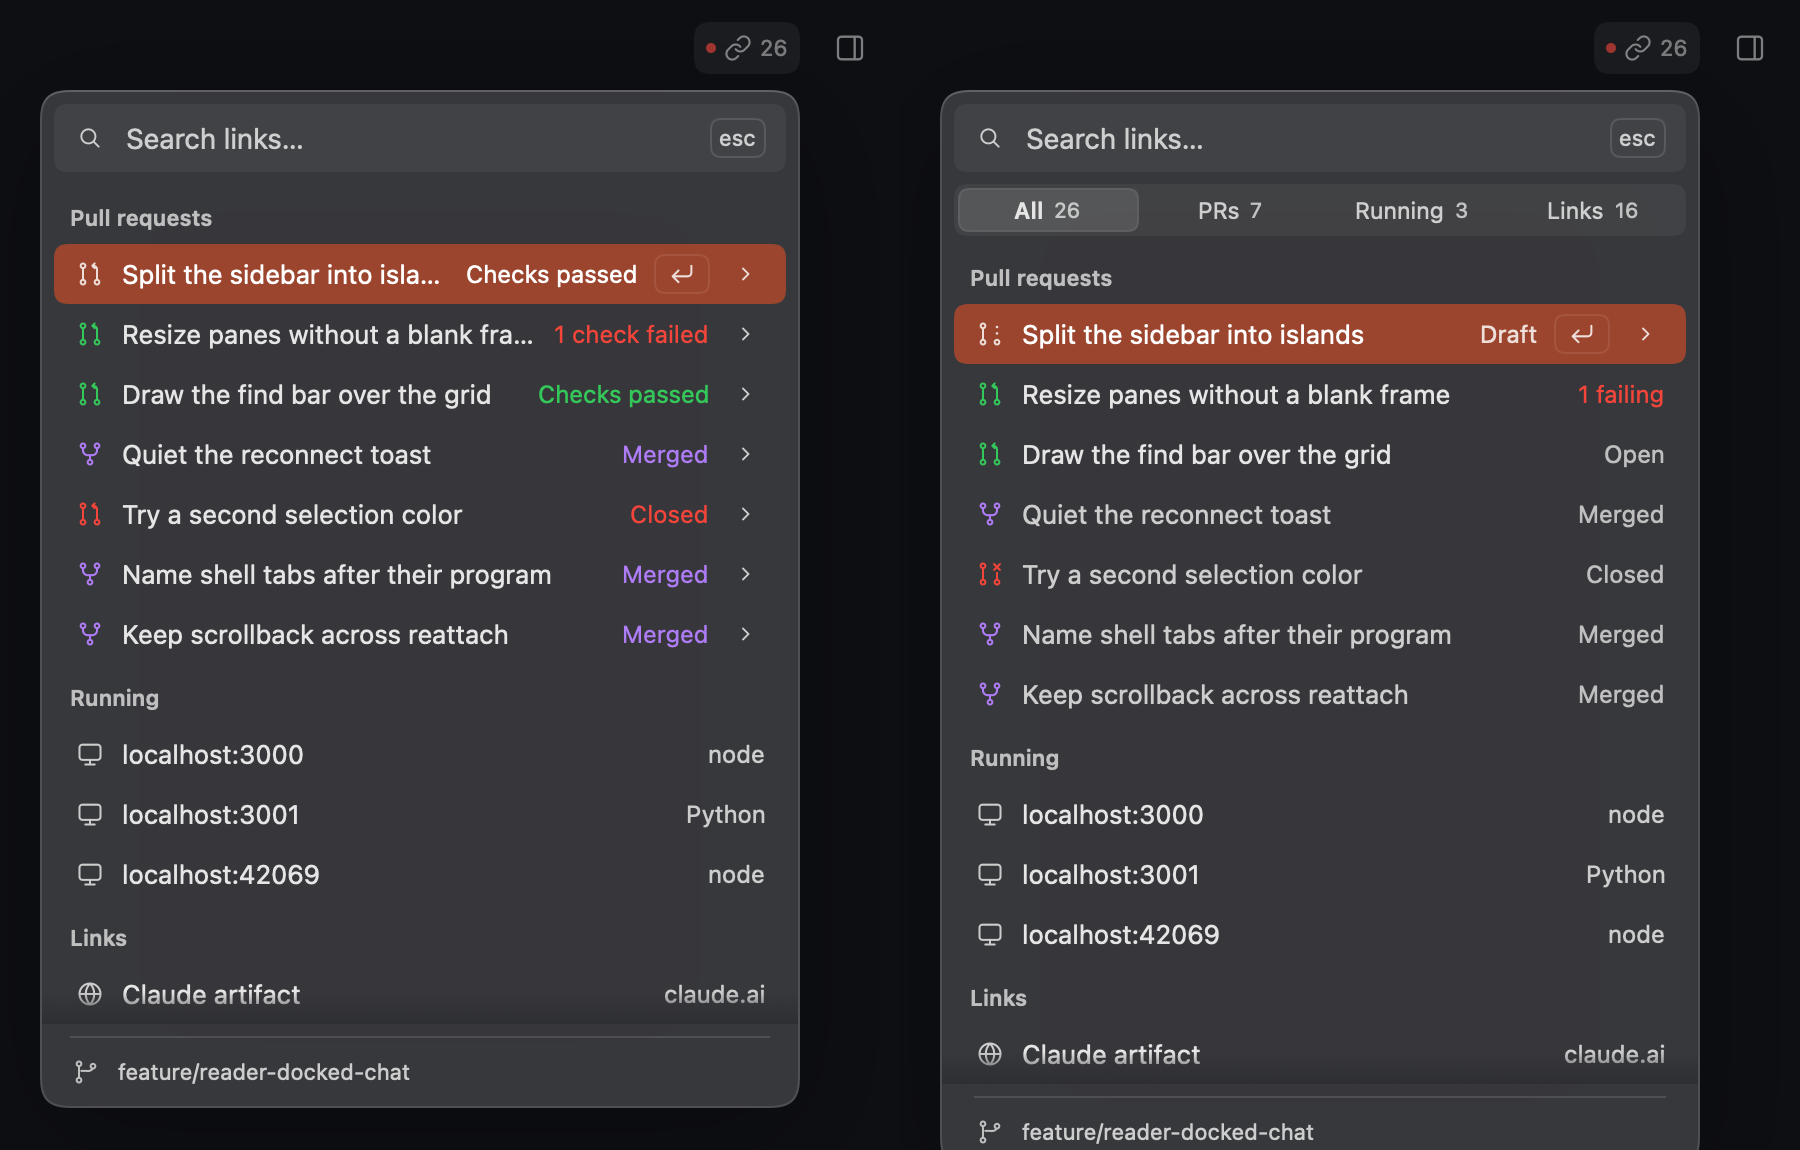
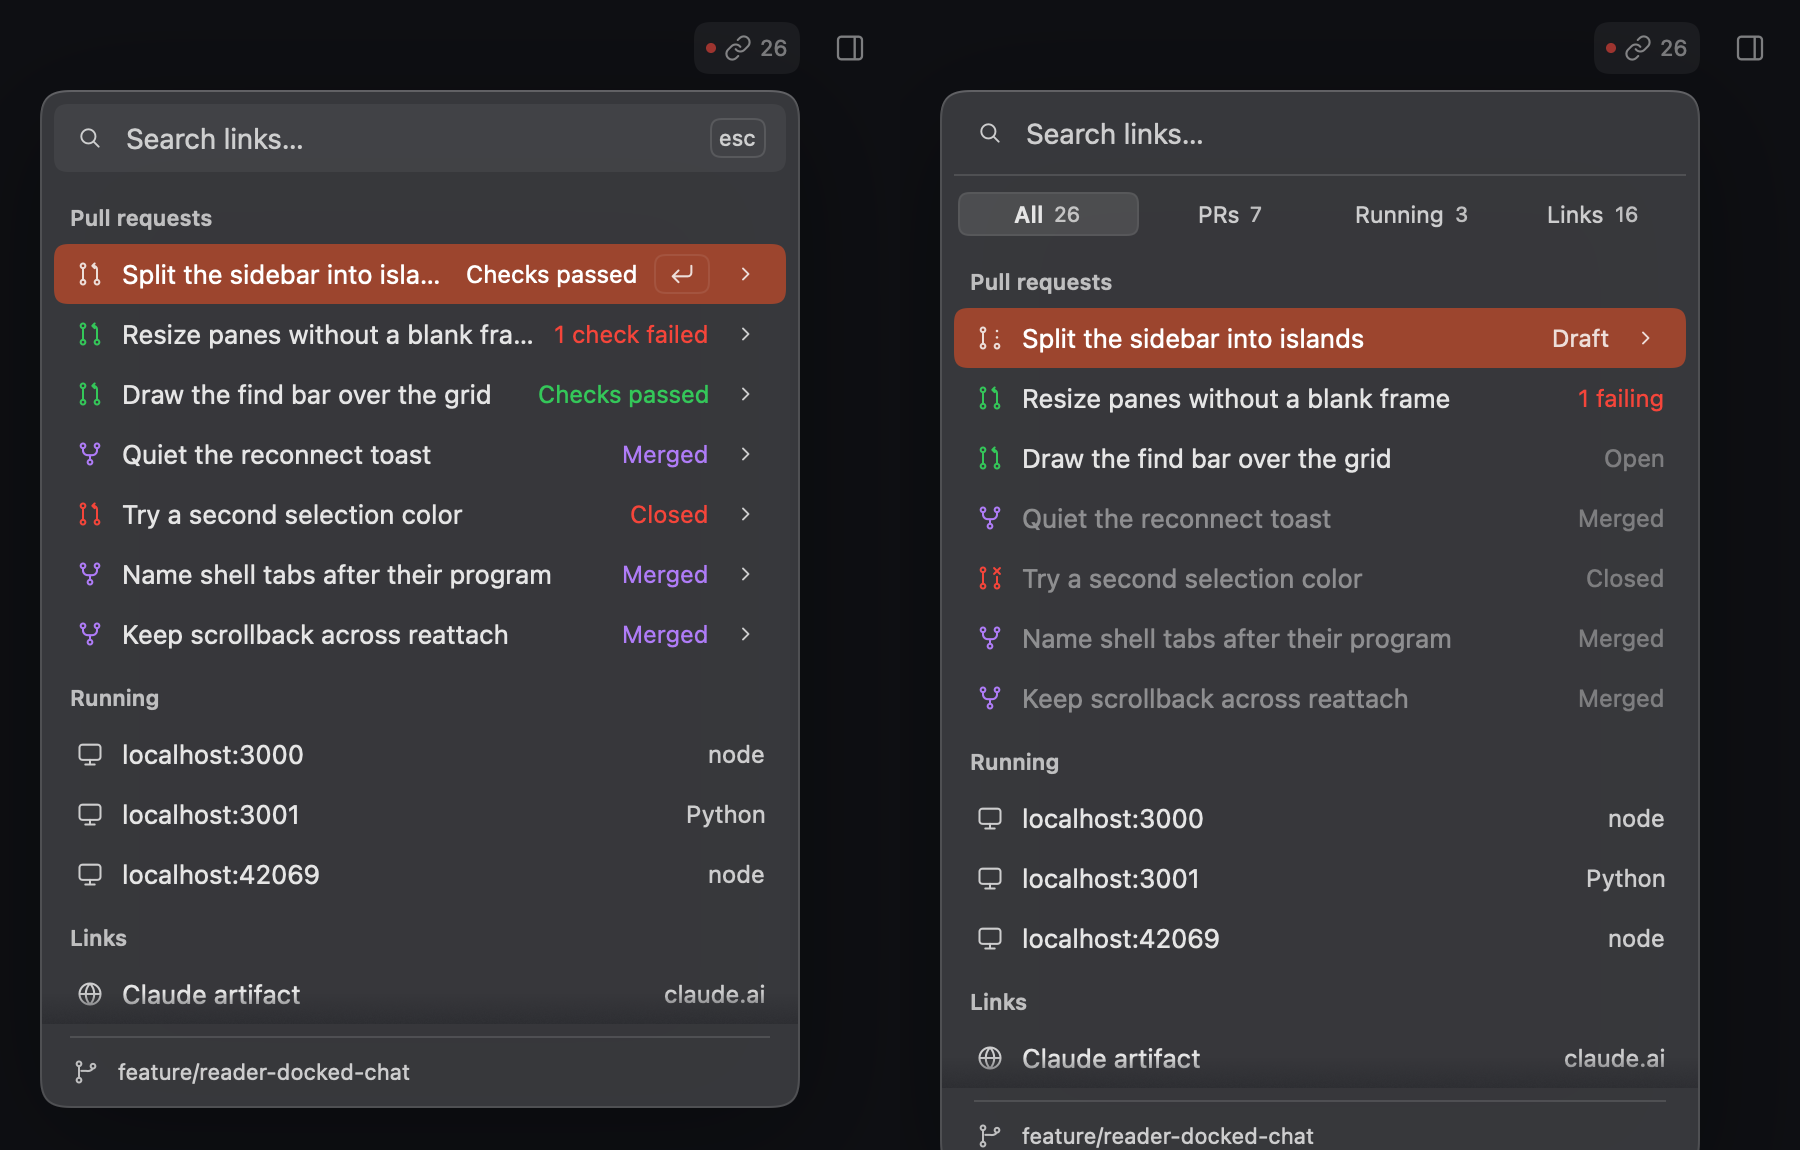
Links popover craft pass: one box, no keycaps, settled PRs step back
- Search is bare text over a hairline instead of a filled pill; esc keycap gone
- Scope control drops its track fill, so only the chosen scope is raised
- No return keycap on the highlighted row; the chevron alone marks a PR's detail page
- Merged and closed titles at half ink, state words always below their title

diff --git a/diri/crates/diri-app/src/session_links.rs b/diri/crates/diri-app/src/session_links.rs
@@ -1,6 +1,6 @@
 //! One contextual home for session links. Status is always attached by URL.
 use super::*;
-use crate::palette_chrome::{PaletteTooltip, keycap, scroll_fades};
+use crate::palette_chrome::{PaletteTooltip, scroll_fades};
 use crate::query_editor::{self, ClipboardEdit, Edit, QueryEditor};
 use crate::tooltip_warmth::WarmTooltip;
 use diri_proto::{ArtifactKind, PrCheck, PullRequestStatus, SessionArtifact};
@@ -1106,12 +1106,7 @@ impl TerminalPane {
                     })
                     .cursor_pointer()
                     .text_size(px(13.0))
-                    // Merged and closed work steps back; open work reads first.
-                    .text_color(if row.settled && !selected {
-                        ink.secondary
-                    } else {
-                        ink.primary
-                    })
+                    .text_color(ink.primary)
                     .child(
                         div()
                             .w(px(16.0))
@@ -1142,6 +1137,11 @@ impl TerminalPane {
                                         el.flex_shrink_0().max_w(gpui::relative(0.7))
                                     })
                                     .truncate()
+                                    // Merged and closed work steps back; open
+                                    // work reads first.
+                                    .when(row.settled && !selected, |el| {
+                                        el.text_color(ink.primary.alpha(0.5))
+                                    })
                                     .child(row.title.clone()),
                             )
                             .when(selected && !address.is_empty(), |el| {
@@ -1164,7 +1164,8 @@ impl TerminalPane {
                                 .text_color(match tone {
                                     _ if selected => ink.secondary,
                                     Some(tone) => tone,
-                                    None => ink.tertiary,
+                                    // Below a dimmed title, never above it.
+                                    None => ink.primary.alpha(0.4),
                                 })
                                 .child(label),
                         )
@@ -1179,13 +1180,6 @@ impl TerminalPane {
                                 .text_color(ink.secondary)
                                 .child(text),
                         )
-                    })
-                    .when(selected, |el| {
-                        el.child(keycap(ink).child(Icon::new(
-                            IconName::Return,
-                            14.0,
-                            ink.secondary,
-                        )))
                     })
                     .when_some(row.details.clone().filter(|_| selected), |el, url| {
                         el.child(
@@ -1243,7 +1237,8 @@ impl TerminalPane {
             }))
             .into_any_element()
     }
-    /// The ⌘K palette's search field: an inset pill with an esc keycap.
+    /// The search field: bare text over a hairline, as a popover's own field
+    /// rather than a palette's pill. Esc still closes it.
     fn render_palette_links_header(
         &self,
         pull_request: Option<i64>,
@@ -1267,14 +1262,13 @@ impl TerminalPane {
                 .into_any_element(),
         };
         div()
-            .mt(px(inset))
             .mx(px(inset))
             .mb(px(inset))
-            .h(px(34.0))
+            .h(px(42.0))
             .pl(px(4.0))
             .pr(px(10.0))
-            .rounded(px(Radius::inner(Radius::PANEL, inset)))
-            .bg(Fill::subtle(colors))
+            .border_b_1()
+            .border_color(colors.floating_stroke())
             .flex()
             .items_center()
             .gap(px(4.0))
@@ -1316,17 +1310,6 @@ impl TerminalPane {
                     .text_size(px(14.0))
                     .child(text),
             )
-            .child(
-                keycap(colors)
-                    .id("session-links-close")
-                    .cursor_pointer()
-                    .hover(move |el| el.bg(Fill::hover(colors, true)))
-                    .on_click(cx.listener(|this, _, window, cx| {
-                        this.close_session_links(window, cx);
-                        cx.stop_propagation();
-                    }))
-                    .child("esc"),
-            )
             .into_any_element()
     }
     /// All · PRs · Running · Links, each with how many rows match the search.
@@ -1339,7 +1322,16 @@ impl TerminalPane {
         cx: &mut Context<Self>,
     ) -> AnyElement {
         let current = self.session_links.scope;
-        let mut track = crate::details_ui::segmented_track(colors);
+        // Only the chosen scope is raised; a filled track under the filled
+        // search field stacked two boxes.
+        let mut track = div()
+            .min_w(px(0.0))
+            .flex_1()
+            .h(px(26.0))
+            .p(px(2.0))
+            .flex()
+            .items_center()
+            .gap(px(2.0));
         for scope in std::iter::once(None).chain(available.iter().copied().map(Some)) {
             let count = matches
                 .iter()
